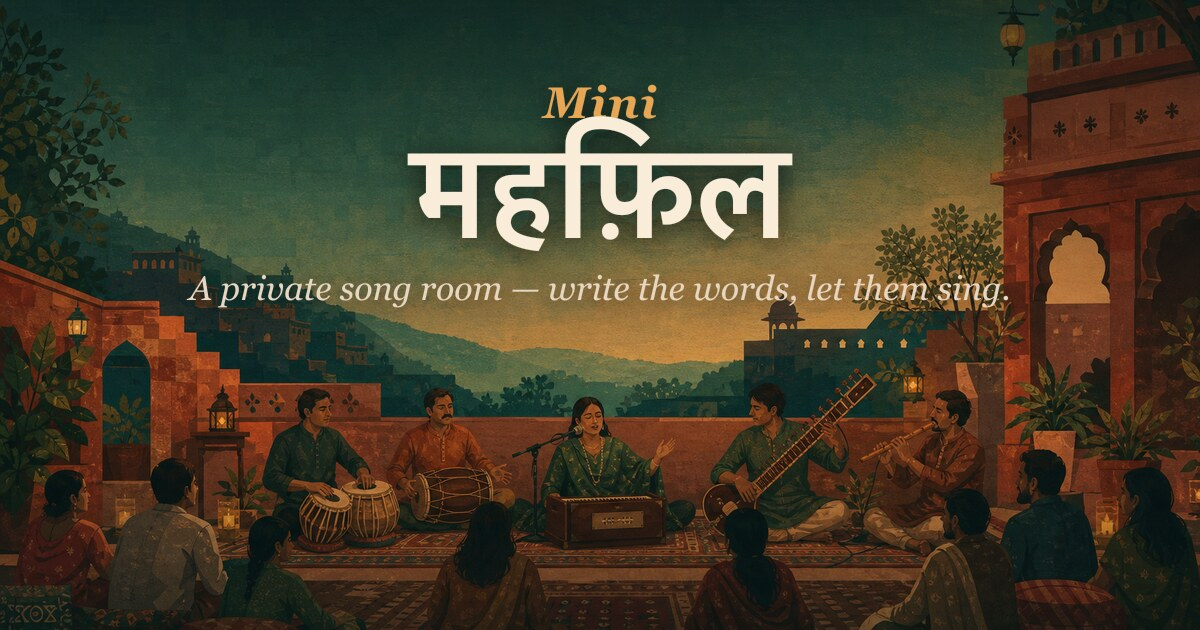
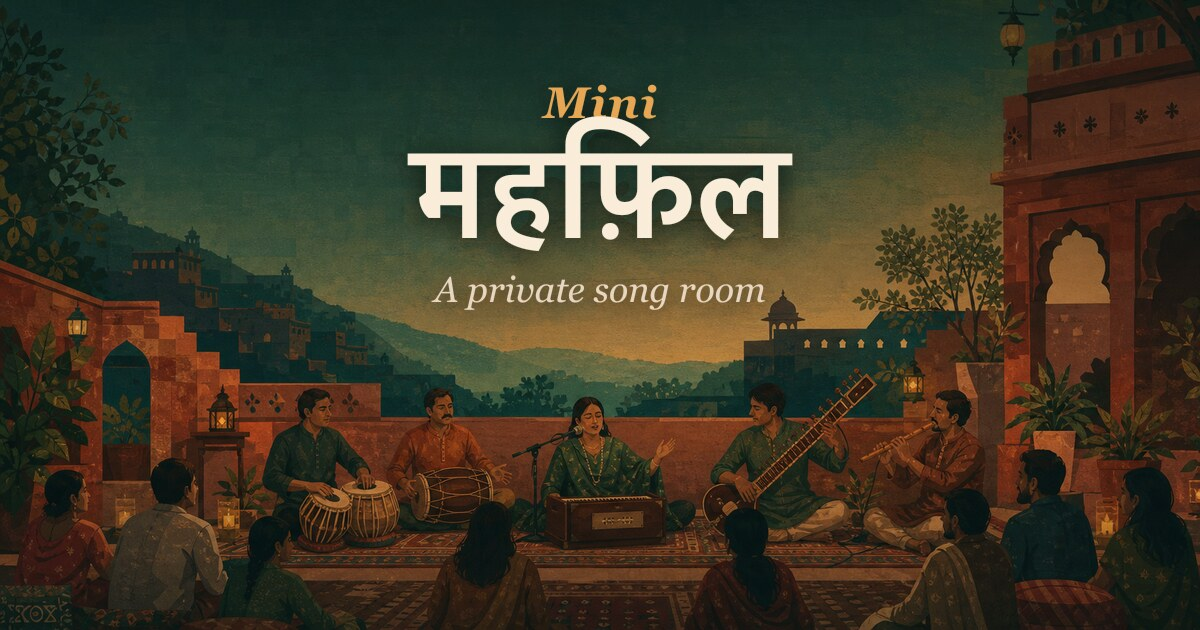
fix(assets): keep the card lockup clear of the courtyard tree
The tagline ran the full width of the card, so its last third crossed the
tree canopy and the pavilion roofline, and the top scrim had faded to
almost nothing by that height. Shorten the line to "A private song room",
which stays inside the clear sky corridor, and carry the scrim further
down so the lockup always has ground under it. The full sentence still
travels in og:description.

Changed region(s): [[0.1542, 0.2714, 0.925, 0.5127]]

diff --git a/public/og/README.md b/public/og/README.md
@@ -2,8 +2,9 @@
 
 `mini-mehfil-card.jpg` is the 1200x630 image every shared link points at: the
 home page, room invitations, and the Worker-rendered `/s/:id` player. It is a
-crop of the production courtyard scene with the stacked wordmark and the app
-tagline burned in, so a link with no other context still says what this is.
+crop of the production courtyard scene with the stacked wordmark and one short
+line burned in, so a link with no other context still says what this is. The
+`og:description` on each surface carries the full sentence.
 
 Three surfaces reference it and all three must keep pointing at the same file:
 
@@ -30,6 +31,16 @@ magick /tmp/og-base.png /tmp/og-overlay.png -composite -quality 88 -strip \
   public/og/mini-mehfil-card.jpg
 ```
 
-Keep the result at exactly 1200x630 and under 300 KB. Readers downscale the
-card to roughly 500 px wide in a feed, so check any copy change at that size
-before committing it.
+Keep the result at exactly 1200x630 and under 300 KB.
+
+Two things to check by eye after any copy change, because nothing else can:
+
+- The scene is only clear above roughly y=310 between x=300 and x=900. The
+  courtyard tree and the pavilion roofline cut through anything wider, so keep
+  each line short enough to stay centered inside that corridor.
+- Readers downscale the card to roughly 500 px wide in a feed. Render it at
+  that size and read it before committing.
+
+```bash
+magick public/og/mini-mehfil-card.jpg -resize 560x /tmp/og-feed.png
+```
